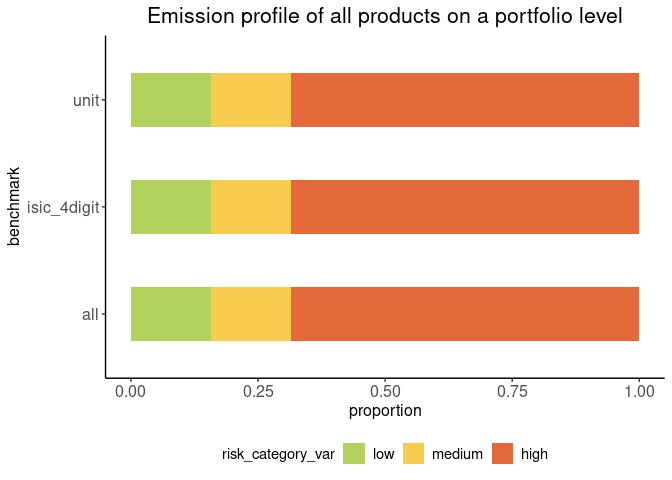
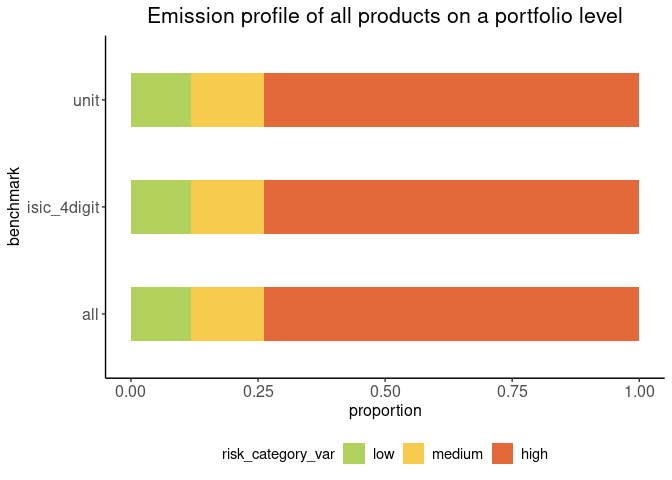
Add modes for the emission profile bar plot without financial data (#134)
* added modes arg for bar plot

* refactored function + built readme file

* tidy style change vignette

* added FIXME

* figure update

* error in vignette

* added tiltIndicatorAfter

* adapted Rmd file to work with tiltIndicatorAfter

* styled

* udpated readme

* change DESCRIPTION

* added NEWS.md

* news.md modified

* Update DESCRIPTION

* Update DESCRIPTION

* Update R/bar_plot_emission_profile.R

* added modes()

* changed to Imports

---------

diff --git a/README.md b/README.md
@@ -172,7 +172,7 @@ benchmarks <- c("all", "isic_4digit", "unit")
 
 no_fin |>
   filter(company_name == "peter") |>
-  bar_plot_emission_profile(benchmarks) +
+  bar_plot_emission_profile(benchmarks, mode = "equal_weight") +
   labs(title = "Emission profile of all products on a company level")
 ```
 
@@ -181,7 +181,7 @@ no_fin |>
 Plot on a portfolio level.
 
 ``` r
-bar_plot_emission_profile(no_fin, benchmarks) +
+bar_plot_emission_profile(no_fin, benchmarks, mode = "equal_weight") +
   labs(title = "Emission profile of all products on a portfolio level")
 ```
 
@@ -219,6 +219,7 @@ map_region_risk(no_fin, "DE", benchmark = "tilt_sector", mode = "best_case") +
   that are found in one region.
   © EuroGeographics for the administrative boundaries ")
 #> Extracting data using giscoR package, please report issues on https://github.com/rOpenGov/giscoR/issues
+#> Cache management as per giscoR. see 'giscoR::gisco_get_nuts()'
 ```
 
 <img src="man/figures/README-unnamed-chunk-14-1.png" width="100%" />

diff --git a/NEWS.md b/NEWS.md
@@ -1,5 +1,9 @@
 <!-- NEWS.md is maintained by https://cynkra.github.io/fledge, do not edit -->
 
+# tiltPlot 0.0.0.9002 (2024-06-04)
+
+* `bar_plot_emission_profile()` has now modes that the user can choose from (#134).
+
 # tiltPlot 0.0.0.9001 (2023-06-27)
 
 * New `plot_sankey()` and `toy_data`.
